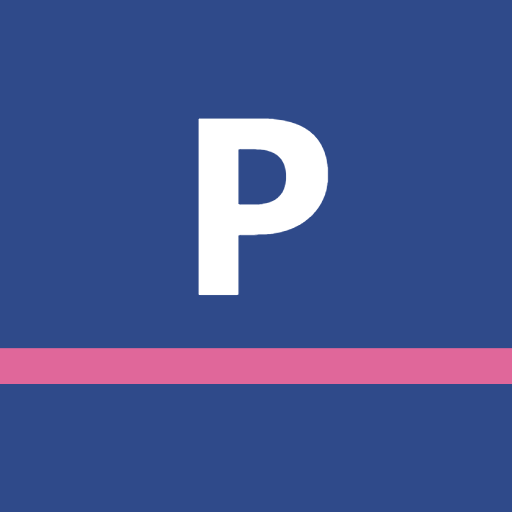
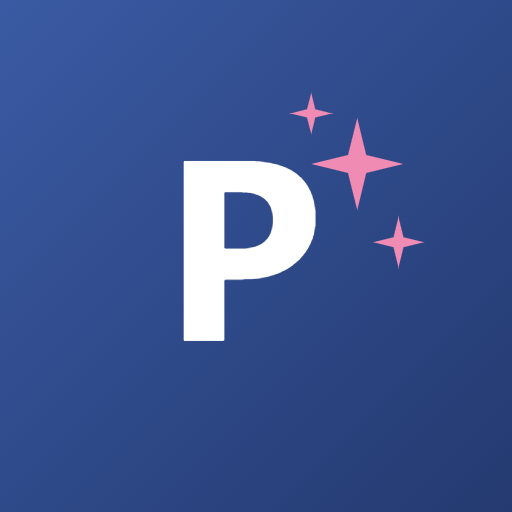
Add files via upload

diff --git a/index.html b/index.html
@@ -4,7 +4,7 @@
 <meta charset="utf-8">
 <meta name="viewport" content="width=device-width, initial-scale=1, viewport-fit=cover">
 <title>Produção Thaty ✨</title>
-<meta name="theme-color" content="#f3f4f7">
+<meta name="theme-color" content="#2f4a8a">
 <meta name="apple-mobile-web-app-capable" content="yes">
 <meta name="apple-mobile-web-app-title" content="Produção">
 <link rel="manifest" href="manifest.json">
@@ -43,17 +43,17 @@ button,input,select{font:inherit;color:inherit}
 a{color:var(--accent)}
 :focus-visible{outline:2px solid var(--tape);outline-offset:2px}
 
-header.top{position:sticky;top:0;padding-top:env(safe-area-inset-top);z-index:5;background:var(--bg);border-bottom:1px solid var(--line)}
+header.top{position:sticky;top:0;padding-top:env(safe-area-inset-top);z-index:5;background:#2f4a8a;color:#fff}
 .top-in{max-width:1100px;margin:0 auto;padding:10px 16px;display:flex;align-items:center;gap:16px}
 .brand{display:flex;align-items:center;gap:10px;font-family:var(--font-display);font-size:22px;font-weight:700}
 .brand i{width:10px;height:26px;background:var(--tape);border-radius:2px;display:block}
 nav.tabs{display:flex;gap:4px;margin-left:auto}
-nav.tabs button{border:0;background:none;padding:8px 12px;border-radius:8px;cursor:pointer;color:var(--muted);font-weight:500}
-nav.tabs button[aria-current="page"]{background:var(--accent);color:var(--accent-ink)}
-.sync{font-size:12px;color:var(--muted)}
+nav.tabs button{border:0;background:none;padding:8px 12px;border-radius:8px;cursor:pointer;color:rgba(255,255,255,.72);font-weight:500}
+nav.tabs button[aria-current="page"]{background:var(--tape);color:#fff;font-weight:600}
+.sync{font-size:12px;color:rgba(255,255,255,.72)}
 main{max-width:1100px;margin:0 auto;padding:18px 16px 96px;display:flex;flex-direction:column;gap:16px}
 @media (max-width:760px){
-  nav.tabs{position:fixed;bottom:0;left:0;right:0;margin:0;background:var(--surface);border-top:1px solid var(--line);padding:6px 4px calc(6px + env(safe-area-inset-bottom));justify-content:space-around;z-index:6;background:var(--bg)}
+  nav.tabs{position:fixed;bottom:0;left:0;right:0;margin:0;background:var(--surface);border-top:0;padding:6px 4px calc(6px + env(safe-area-inset-bottom));justify-content:space-around;z-index:6;background:#2f4a8a}
   nav.tabs button{flex:1;padding:10px 2px;font-size:12px}
   .sync{margin-left:auto}
 }
@@ -151,7 +151,7 @@ tfoot td{font-weight:600;border-bottom:0}
 .toast{position:fixed;left:50%;transform:translateX(-50%);bottom:84px;background:var(--ink);color:var(--surface);padding:10px 16px;border-radius:10px;font-size:14px;z-index:30;max-width:90%}
 .login{max-width:340px;margin:12vh auto 0;display:flex;flex-direction:column;gap:14px;text-align:center}
 .login input{font-size:28px;letter-spacing:.4em;text-align:center;border:1px solid var(--line);background:var(--surface);border-radius:12px;padding:12px}
-.who{font-size:12px;color:var(--muted);cursor:pointer;border:0;background:none}
+.who{font-size:12px;color:rgba(255,255,255,.85);cursor:pointer;border:0;background:none}
 .fab{position:fixed;right:16px;bottom:24px;z-index:8;display:flex;align-items:center;gap:8px;background:var(--tape);color:#fff;border:0;border-radius:999px;padding:12px 18px;font-weight:600;box-shadow:0 4px 14px rgba(224,103,154,.35);cursor:pointer}
 .fab[hidden]{display:none}
 @media (max-width:760px){.fab{bottom:calc(76px + env(safe-area-inset-bottom))}}

diff --git a/config.js b/config.js
@@ -6,7 +6,7 @@ window.PT_API = "https://script.google.com/macros/s/AKfycbwrhYfCqIEP1yZ51kV1y3GW
     if (!k) return;
     localStorage.setItem('pt_pin', k);
     var base = location.href.split('?')[0].split('#')[0];
-    var m = {name:'Produção Thaty ✨', short_name:'Produção', start_url: base + '?k=' + encodeURIComponent(k), scope: base, display:'standalone', orientation:'portrait', background_color:'#f3f4f7', theme_color:'#f3f4f7', lang:'pt-BR',
+    var m = {name:'Produção Thaty ✨', short_name:'Produção', start_url: base + '?k=' + encodeURIComponent(k), scope: base, display:'standalone', orientation:'portrait', background_color:'#f3f4f7', theme_color:'#2f4a8a', lang:'pt-BR',
       icons:[{src: base+'icon-192.png', sizes:'192x192', type:'image/png'},{src: base+'icon-512.png', sizes:'512x512', type:'image/png'},{src: base+'icon-maskable-512.png', sizes:'512x512', type:'image/png', purpose:'maskable'}]};
     var url = URL.createObjectURL(new Blob([JSON.stringify(m)], {type:'application/manifest+json'}));
     var l = document.querySelector('link[rel=manifest]'); if (l) l.href = url;
